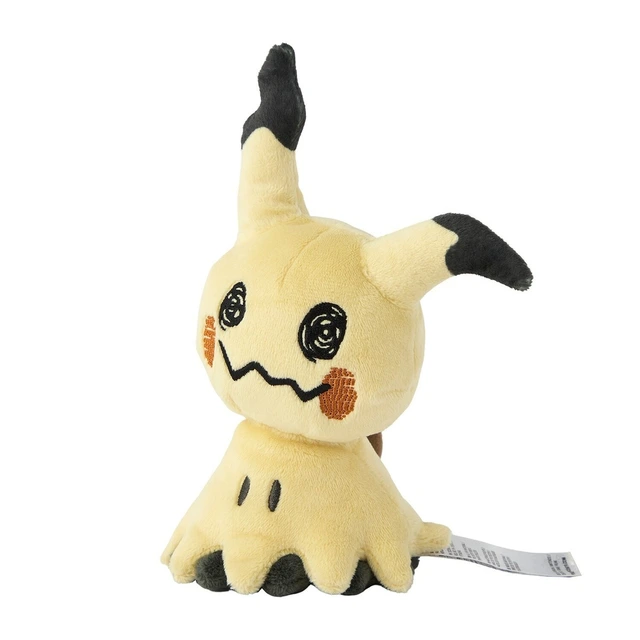
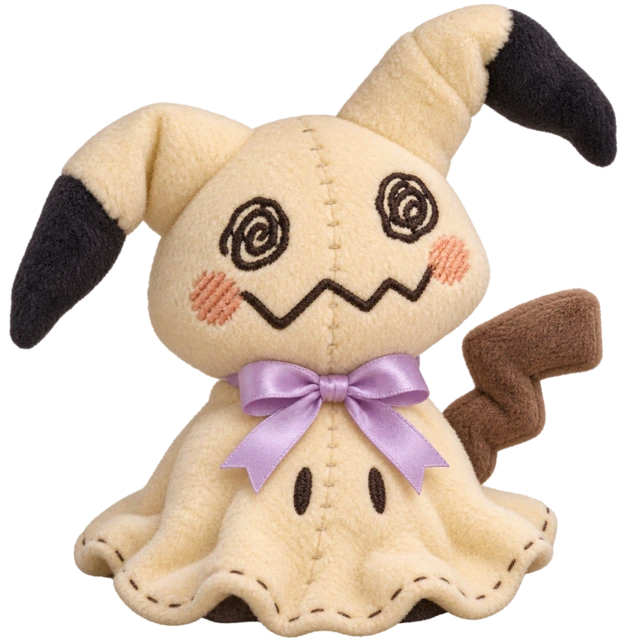
-
-

diff --git a/public/assets/js/room-designs.js b/public/assets/js/room-designs.js
@@ -2,6 +2,6 @@ import {OUTFITS,ROOMS,PRIZES,unlockedOutfits,unlockedRooms} from './game-rules.j
 export function designTools(store,parent){
  const box=document.createElement('details');box.className='saved-designs';box.innerHTML='<summary>My favorite rooms ♡</summary><p>Keep up to six lovely combinations.</p><label>Name this design <input maxlength="40" placeholder="My cozy little room"></label>';parent.prepend(box);
  const name=box.querySelector('input'),save=document.createElement('button'),status=document.createElement('p'),list=document.createElement('div');save.className='button';save.textContent='Save this design';status.setAttribute('role','status');list.className='design-list';box.append(save,status,list);
- save.onclick=()=>{const title=name.value.trim();if(!title){status.textContent='Give your room a little name first ♡';return;}if((store.state.roomDesigns||[]).length>=6){status.textContent='Six favorites are saved. Remove one to make room ♡';return;}store.change(s=>{s.roomDesigns??=[];s.roomDesigns.push({id:crypto.randomUUID(),name:title,room:s.room,outfit:s.outfit,shelf:[...s.shelf]});});name.value='';status.textContent='Your favorite is saved ♡';};
- let previous='';return s=>{const signature=JSON.stringify([s.roomDesigns,s.prizes,unlockedRooms(s),unlockedOutfits(s),store.ready]);if(signature===previous)return;previous=signature;save.disabled=!store.ready||(s.roomDesigns||[]).length>=6;list.replaceChildren();for(const design of s.roomDesigns||[]){const card=document.createElement('div');card.className='design-card';const title=document.createElement('strong');title.textContent=design.name;const preview=document.createElement('div');preview.className='design-preview';const room=ROOMS.find(r=>r.id===design.room);preview.style.background=room?.image?`url('${room.image}') center/cover`:room?.wall||'#ead7f3';for(const item of [OUTFITS.find(o=>o.id===design.outfit),...design.shelf.map(id=>PRIZES.find(p=>p.id===id))].filter(Boolean)){const img=document.createElement('img');img.src=item.image;img.alt=item.name;preview.append(img);}const ready=unlockedRooms(s).includes(design.room)&&unlockedOutfits(s).includes(design.outfit)&&design.shelf.every(id=>!id||s.prizes.includes(id));const use=document.createElement('button');use.className='button';use.textContent=ready?'Use this room ♡':'Some treasures are missing';use.disabled=!store.ready||!ready;use.onclick=()=>{store.change(next=>{if(unlockedRooms(next).includes(design.room)&&unlockedOutfits(next).includes(design.outfit)&&design.shelf.every(id=>!id||next.prizes.includes(id))){next.room=design.room;next.outfit=design.outfit;next.shelf=[...design.shelf];}});status.textContent=design.name+' is ready ♡';};const remove=document.createElement('button');remove.className='button soft';remove.textContent='Remove favorite';remove.onclick=()=>store.change(next=>next.roomDesigns=next.roomDesigns.filter(d=>d.id!==design.id));card.append(title,preview,use,remove);list.append(card);}};
+ save.onclick=()=>{const title=name.value.trim();if(!title){status.textContent='Give your room a little name first ♡';return;}if((store.state.roomDesigns||[]).length>=6){status.textContent='Six favorites are saved. Remove one to make room ♡';return;}store.change(s=>{s.roomDesigns??=[];s.roomDesigns.push({id:crypto.randomUUID(),name:title,room:s.room,outfit:s.outfit,shelf:[...s.shelf]});});name.value='';pendingFavorite=true;status.textContent='Your favorite is saving ♡';void store.save?.();};
+ let pendingFavorite=false,previous='';return s=>{if(pendingFavorite){status.textContent=store.conflict?'Your favorite is kept here. Open your account save to finish syncing ♡':!store.online?'Your favorite is kept on this device until you reconnect ♡':store.dirty||store.saving?'Saving your favorite to your account…':'Your favorite is saved to your account ♡';if(store.online&&!store.dirty&&!store.saving&&!store.conflict)pendingFavorite=false;}const signature=JSON.stringify([s.roomDesigns,s.prizes,unlockedRooms(s),unlockedOutfits(s),store.ready]);if(signature===previous)return;previous=signature;save.disabled=!store.ready||(s.roomDesigns||[]).length>=6;list.replaceChildren();for(const design of s.roomDesigns||[]){const card=document.createElement('div');card.className='design-card';const title=document.createElement('strong');title.textContent=design.name;const preview=document.createElement('div');preview.className='design-preview';const room=ROOMS.find(r=>r.id===design.room);preview.style.background=room?.image?`url('${room.image}') center/cover`:room?.wall||'#ead7f3';for(const item of [OUTFITS.find(o=>o.id===design.outfit),...design.shelf.map(id=>PRIZES.find(p=>p.id===id))].filter(Boolean)){const img=document.createElement('img');img.src=item.image;img.alt=item.name;preview.append(img);}const ready=unlockedRooms(s).includes(design.room)&&unlockedOutfits(s).includes(design.outfit)&&design.shelf.every(id=>!id||s.prizes.includes(id));const use=document.createElement('button');use.className='button';use.textContent=ready?'Use this room ♡':'Some treasures are missing';use.disabled=!store.ready||!ready;use.onclick=()=>{store.change(next=>{if(unlockedRooms(next).includes(design.room)&&unlockedOutfits(next).includes(design.outfit)&&design.shelf.every(id=>!id||next.prizes.includes(id))){next.room=design.room;next.outfit=design.outfit;next.shelf=[...design.shelf];}});status.textContent=design.name+' is ready ♡';};const remove=document.createElement('button');remove.className='button soft';remove.textContent='Remove favorite';remove.onclick=()=>store.change(next=>next.roomDesigns=next.roomDesigns.filter(d=>d.id!==design.id));card.append(title,preview,use,remove);list.append(card);}};
 }

diff --git a/public/assets/js/carnival.js b/public/assets/js/carnival.js
@@ -1,3 +1,4 @@
+import {updateProgress} from './progress-view.js';
 import {openDrop} from './princess-drop.js';
 import {openRoulette} from './roulette.js';
 import {HUNTERS,weeklyHunt} from './hunt-config.js';
@@ -10,14 +11,14 @@ import { loadContent, text as t, readNotes } from './content-loader.js';
 import { playBoxSound } from './box-audio.js';
 const $ = id => document.getElementById(id), store = new CarnivalStore(), prize = id => PRIZES.find(p => p.id === id);
 const dialog = $('game-dialog'), body = $('game-body'), result = $('game-result');
-let roomSignature = '', toastTimer;
+let roomSignature = '', wardrobeSignature='', collectionSignature='', toastTimer;
 const renderStudio = makeStudio(store);
 const resetNote = document.createElement('p'); resetNote.className='section-copy'; resetNote.id='weekly-reset-estimate'; $('weekly-box').parentElement.prepend(resetNote);
 const mazeReset = document.createElement('small'); mazeReset.id='maze-reset-estimate'; $('manor-open').append(mazeReset);
 function el(tag, text, className) { const n = document.createElement(tag); if (text !== undefined)
     n.textContent = text; if (className)
     n.className = className; return n; }
-function image(item, className = 'collectible-image') { const img = el('img', undefined, className); img.src = item.image; img.alt = item.name; img.loading = 'lazy'; return img; }
+function image(item, className = 'collectible-image') { const img = el('img', undefined, className); img.src = item.image; img.alt = item.name; img.loading = 'lazy';img.decoding='async'; return img; }
 function button(text, fn, parent = body) { const b = el('button', text, 'button'); b.onclick = fn; parent.append(b); return b; }
 function p(text) { const n = el('p', text, 'rules'); body.append(n); return n; }
 function actions() { const n = el('div', undefined, 'game-actions'); body.append(n); return n; }
@@ -48,7 +49,7 @@ function render(s, event = {}) {
     $('manor-open').disabled = !store.ready || mazeUnavailable&&store.profile!=='testing';
     $('manor-open').title = mazeUnavailable ? 'A new maze adventure opens next Monday.' : '';
     $('manor-availability').textContent = s.manorRun?.status === 'active' ? 'Resume your weekly run →' : s.mazeWeeks.includes(week) ? 'This week’s run is complete ♡' : t('games.manor.action');
-    const unlocked = unlockedOutfits(s), signature = JSON.stringify([s.prizes, s.shelf, s.outfit, unlocked, store.ready,journeyCounts(s)]);
+    const unlocked = unlockedOutfits(s), signature = JSON.stringify([s.prizes,s.shelf,s.outfit,store.ready]);
     if (signature !== roomSignature) {
         roomSignature = signature;
         const outfit = OUTFITS.find(o => o.id === s.outfit) || OUTFITS[0];
@@ -60,7 +61,15 @@ function render(s, event = {}) {
         $('collection-total').textContent = `${s.prizes.length} / ${PRIZES.length}`;
         $('stage-shelves').replaceChildren(...s.shelf.map((id, index) => { const b = el('button', id ? undefined : '+', 'stage-slot'); const plinth=el('span',undefined,'display-plinth');plinth.setAttribute('aria-hidden','true');b.append(plinth); if (id)
             b.append(image(prize(id))); b.setAttribute('aria-label', `Decorate shelf ${index + 1}${id ? `, ${prize(id).name}` : ''}`); b.disabled = !store.ready; b.onclick = () => decorate(index); return b; }));
+    }
+    const nextWardrobe=JSON.stringify([s.outfit,unlocked,store.ready]);
+    if(nextWardrobe!==wardrobeSignature){wardrobeSignature=nextWardrobe;
+        $('outfit-count').textContent=t('wardrobe.count',{owned:unlocked.length,total:OUTFITS.length});
         $('outfits').replaceChildren(...OUTFITS.map(o => { const owned = unlocked.includes(o.id), b = el('button', undefined, `outfit${s.outfit === o.id ? ' equipped' : ''}${owned ? '' : ' locked'}`); const thumbnail = o.image ? image(o, 'outfit-thumbnail') : el('span', o.icon, 'outfit-icon'); b.append(thumbnail, el('strong', o.name), el('small', owned && !o.image ? t('wardrobe.pending') : s.outfit === o.id ? t('wardrobe.wearing') : owned ? t('wardrobe.wear') : o.hint)); {const goals=outfitProgress(s,o.id);if(goals.length){const list=el('span',undefined,'outfit-goals');for(const goal of goals){const label=goal.label,line=el('span',label+' · '+goal.value+' / '+goal.goal),meter=el('progress');meter.max=goal.goal;meter.value=goal.value;meter.setAttribute('aria-label',label);list.append(line,meter);}b.append(list);}} b.disabled = !store.ready || !owned || !o.image; b.setAttribute('aria-pressed', String(s.outfit === o.id)); b.onclick = () => store.change(s => { s.outfit = o.id; }); return b; }));
+    }
+    updateProgress($('outfits'),OUTFITS,o=>outfitProgress(s,o.id));
+    const nextCollection=JSON.stringify(s.prizes);
+    if(nextCollection!==collectionSignature){collectionSignature=nextCollection;
         $('collection').replaceChildren(...PRIZES.map(item => { const card = el('div', undefined, `inventory-item${s.prizes.includes(item.id) ? '' : ' locked'}`); card.append(image(item), el('span', item.name)); if (!s.prizes.includes(item.id)) {
             const lock = el('small', 'Not found yet');
             card.append(lock);
@@ -169,3 +178,5 @@ readNotes().then(data => { const latest = data.notes.filter(n => n.published).so
     $('latest-note').textContent = `${latest.emoji} Week ${latest.week} · ${latest.title} — ${latest.message.slice(0, 160)}`; }).catch(() => { });
 
 $('manor-open').onclick = () => { if (!$('manor-open').disabled) location.href = 'escape.html'; };
+
+export {store};

diff --git a/public/assets/js/room-studio.js b/public/assets/js/room-studio.js
@@ -1,3 +1,4 @@
+import {updateProgress} from './progress-view.js';
 import {designTools} from './room-designs.js';
 import {galleryPager} from './gallery-pager.js';
 import {ROOMS, unlockedRooms, roomProgress} from './game-rules.js';
@@ -40,5 +41,5 @@ export function makeStudio(store){
  c.fillStyle='#513563';c.font='22px Georgia';c.textAlign='center';c.fillText('Nayleen’s Palace ♡',500,canvas.height-12);
 
  const blob=await new Promise(resolve=>canvas.toBlob(resolve,'image/png'));if(!blob)throw Error();const url=URL.createObjectURL(blob),a=document.createElement('a');a.href=url;a.download='nayleens-palace-room.png';a.click();setTimeout(()=>URL.revokeObjectURL(url),5000);feedback.textContent='Your room portrait is ready to keep. ♡';}catch{feedback.textContent='The images are still loading. Try saving again in a moment.'}finally{exportButton.disabled=!store.ready}};
- let last='';return s=>{renderDesigns(s);const owned=unlockedRooms(s),id=owned.includes(s.room)?s.room:'lavender';document.querySelector('.espurr-room').dataset.room=id;const theme=ROOMS.find(r=>r.id===id);for(const slot of document.querySelectorAll('.stage-slot')){if(!slot.querySelector('.display-plinth')){const stand=document.createElement('span');stand.className='display-plinth';stand.setAttribute('aria-hidden','true');slot.prepend(stand)}}backdrop.hidden=!theme.image;if(theme.image && !backdrop.src.endsWith(theme.image))backdrop.src=theme.image;exportButton.disabled=!store.ready;const key=JSON.stringify([owned,id,store.ready,ROOMS.map(r=>roomProgress(s,r.id))]);if(key===last)return;last=key;options.replaceChildren(...ROOMS.map(r=>{const b=document.createElement('button');b.className='outfit room-option'+(owned.includes(r.id)?'':' locked');b.disabled=!store.ready||!owned.includes(r.id);b.setAttribute('aria-pressed',String(id===r.id));const preview=document.createElement('span');preview.className='room-preview';preview.style.background=r.image?`url('${r.image}') center/cover`:'linear-gradient('+r.wall+' 75%,'+r.floor+' 75%)';preview.textContent=r.image?'':r.id==='garden'?'❀':r.id==='cafe'?'☕':'☾';const name=document.createElement('strong');name.textContent=r.name;const hint=document.createElement('small');hint.textContent=id===r.id?'Living here ♡':owned.includes(r.id)?'Move in':r.hint;b.append(preview,name,hint);const goals=document.createElement('span');goals.className='outfit-goals';for(const goal of roomProgress(s,r.id)){const line=document.createElement('span'),meter=document.createElement('progress');line.textContent=goal.label+' · '+goal.value+' / '+goal.goal;meter.max=goal.goal;meter.value=goal.value;meter.setAttribute('aria-label',goal.label);goals.append(line,meter);}b.append(goals);b.onclick=()=>store.change(s=>s.room=r.id);return b}));};
+ let last='',sceneRoom='';return s=>{renderDesigns(s);const owned=unlockedRooms(s),id=owned.includes(s.room)?s.room:'lavender';document.querySelector('.espurr-room').dataset.room=id;const theme=ROOMS.find(r=>r.id===id);for(const slot of document.querySelectorAll('.stage-slot')){if(!slot.querySelector('.display-plinth')){const stand=document.createElement('span');stand.className='display-plinth';stand.setAttribute('aria-hidden','true');slot.prepend(stand)}}backdrop.hidden=!theme.image;if(theme.image && !backdrop.src.endsWith(theme.image))backdrop.src=theme.image;exportButton.disabled=!store.ready;const key=JSON.stringify([owned,id,store.ready]);if(key===last){updateProgress(options,ROOMS,r=>roomProgress(s,r.id));return;}last=key;options.replaceChildren(...ROOMS.map(r=>{const b=document.createElement('button');b.className='outfit room-option'+(owned.includes(r.id)?'':' locked');b.disabled=!store.ready||!owned.includes(r.id);b.setAttribute('aria-pressed',String(id===r.id));const preview=document.createElement('span');preview.className='room-preview';preview.style.background=r.image?`url('${r.image}') center/cover`:'linear-gradient('+r.wall+' 75%,'+r.floor+' 75%)';preview.textContent=r.image?'':r.id==='garden'?'❀':r.id==='cafe'?'☕':'☾';const name=document.createElement('strong');name.textContent=r.name;const hint=document.createElement('small');hint.textContent=id===r.id?'Living here ♡':owned.includes(r.id)?'Move in':r.hint;b.append(preview,name,hint);const goals=document.createElement('span');goals.className='outfit-goals';for(const goal of roomProgress(s,r.id)){const line=document.createElement('span'),meter=document.createElement('progress');line.textContent=goal.label+' · '+goal.value+' / '+goal.goal;meter.max=goal.goal;meter.value=goal.value;meter.setAttribute('aria-label',goal.label);goals.append(line,meter);}b.append(goals);b.onclick=()=>store.change(s=>s.room=r.id);return b}));};
 }

diff --git a/public/assets/js/game-rules.js b/public/assets/js/game-rules.js
@@ -223,8 +223,8 @@ function validJourney(j){if(!j||typeof j!=='object'||Array.isArray(j)||j.version
 function normalizeJourney(raw,now){const j=freshJourney();if(!raw||typeof raw!=='object')return j;const today=dayKey(now),clean=list=>[...new Set((Array.isArray(list)?list:[]).filter(d=>dateKey(d)&&d<=today))].sort().slice(-400);for(const [key,max] of [['cardDays',5],['squishDays',100]]){const input=raw[key];if(input&&typeof input==='object'&&!Array.isArray(input))for(const day of Object.keys(input).filter(d=>dateKey(d)&&d<=today).sort().slice(-400))j[key][day]=integer(input[day],max);}j.playDays=clean(raw.playDays);j.loginDays=clean([...(raw.loginDays||[]),...j.playDays]);for(const key of ['boxWeeks','mazeWeeks','escapeWeeks'])j[key]=clean(raw[key]).filter(d=>new Date(d).getUTCDay()===1);j.earnedOutfits=[...new Set((Array.isArray(raw.earnedOutfits)?raw.earnedOutfits:[]).filter(id=>Object.hasOwn(OUTFIT_CHALLENGES,id)))];return j;}
 export function journeyCounts(s){const j=s.journey||freshJourney(),cards=Object.values(j.cardDays),weekly={};for(const [day,count] of Object.entries(j.cardDays)) {const week=mondayKey(Date.parse(day)+43200000);weekly[week]=(weekly[week]||0)+count;}const sparkleDays=cards.filter(n=>n>=5).length;return {welcome:1,loginDays:new Set([...(j.loginDays||[]),...j.playDays]).size,bestBank:s.stats.bestBank,squishes:s.clicker.lifetime,boxes:s.stats.boxes,escapes:s.stats.manorWins,cardStarts:s.stats.cardRounds,squishies:unlockedSquishies(s).length,bestDrop:Math.max(s.stats.bestDrop||0,...Object.values(s.dropRuns||{}).map(r=>r.score||0)),wishes:Math.max(s.stats.wishes||0,(s.tradeWeeks||[]).length),roulette:Math.max(s.stats.roulette||0,Object.values(s.rouletteWeeks||{}).reduce((a,n)=>a+n,0)),hunts:Math.max(s.stats.hunts||0,(s.mazeWeeks||[]).length,s.stats.manorWins||0),hands:s.stats.blackjackHands||0,dropPlays:Math.max(s.stats.dropPlays||0,Object.values(s.dropRuns||{}).reduce((a,r)=>a+dropAttempts(r),0)),sparkleDays,cozyDays:Object.values(j.squishDays).filter(n=>n>=100).length,playDays:j.playDays.length,tableWeeks:Object.values(weekly).filter(n=>n>=5).length,boxWeeks:j.boxWeeks.length,mazeWeeks:j.mazeWeeks.length,escapeWeeks:j.escapeWeeks.length,wins:s.stats.cardWins,jubilee:sparkleDays>=7||j.earnedOutfits.includes('jubilee')||(s.grantedOutfits||[]).includes('jubilee')?1:0};}
 export function challengeProgress(s,requirements){const counts=journeyCounts(s);return requirements.map(([metric,goal])=>({metric,goal,value:Math.min(goal,counts[metric]||0),label:JOURNEY_LABELS[metric]}));}
-export function outfitProgress(s,id){return challengeProgress(s,OUTFIT_CHALLENGES[id]||[]);}
-export function roomProgress(s,id){return challengeProgress(s,ROOM_CHALLENGES[id]||[]);}
+export function outfitProgress(s,id){return challengeProgress(s,OUTFIT_CHALLENGES[id]||[]).map(g=>(s.grantedOutfits||[]).includes(id)||(s.journey?.earnedOutfits||[]).includes(id)?{...g,value:g.goal}:g);}
+export function roomProgress(s,id){return challengeProgress(s,ROOM_CHALLENGES[id]||[]).map(g=>(s.grantedRooms||[]).includes(id)?{...g,value:g.goal}:g);}
 export function recordLogin(s,now=Date.now()){s.journey??=freshJourney();s.journey.loginDays??=[...s.journey.playDays];const d=dayKey(now);if(s.journey.loginDays.includes(d))return false;s.journey.loginDays.push(d);s.journey.loginDays=s.journey.loginDays.sort().slice(-400);claimJourneyRewards(s);return true;}
 export const WEEKLY_RESET='Weekly games and blind boxes reset Monday at 12:00 AM (Central Time) ♡';
 function claimJourneyRewards(s){s.journey??=freshJourney();for(const [id,requirements] of Object.entries(OUTFIT_CHALLENGES).filter(([id])=>!['royal','sunday','cozy','espeon','akali','kda','furina','rogue','ada'].includes(id)))if(!s.journey.earnedOutfits.includes(id)&&challengeProgress(s,requirements).every(g=>g.value>=g.goal))s.journey.earnedOutfits.push(id);}

diff --git a/server/game-rules.js b/server/game-rules.js
@@ -223,8 +223,8 @@ function validJourney(j){if(!j||typeof j!=='object'||Array.isArray(j)||j.version
 function normalizeJourney(raw,now){const j=freshJourney();if(!raw||typeof raw!=='object')return j;const today=dayKey(now),clean=list=>[...new Set((Array.isArray(list)?list:[]).filter(d=>dateKey(d)&&d<=today))].sort().slice(-400);for(const [key,max] of [['cardDays',5],['squishDays',100]]){const input=raw[key];if(input&&typeof input==='object'&&!Array.isArray(input))for(const day of Object.keys(input).filter(d=>dateKey(d)&&d<=today).sort().slice(-400))j[key][day]=integer(input[day],max);}j.playDays=clean(raw.playDays);j.loginDays=clean([...(raw.loginDays||[]),...j.playDays]);for(const key of ['boxWeeks','mazeWeeks','escapeWeeks'])j[key]=clean(raw[key]).filter(d=>new Date(d).getUTCDay()===1);j.earnedOutfits=[...new Set((Array.isArray(raw.earnedOutfits)?raw.earnedOutfits:[]).filter(id=>Object.hasOwn(OUTFIT_CHALLENGES,id)))];return j;}
 export function journeyCounts(s){const j=s.journey||freshJourney(),cards=Object.values(j.cardDays),weekly={};for(const [day,count] of Object.entries(j.cardDays)) {const week=mondayKey(Date.parse(day)+43200000);weekly[week]=(weekly[week]||0)+count;}const sparkleDays=cards.filter(n=>n>=5).length;return {welcome:1,loginDays:new Set([...(j.loginDays||[]),...j.playDays]).size,bestBank:s.stats.bestBank,squishes:s.clicker.lifetime,boxes:s.stats.boxes,escapes:s.stats.manorWins,cardStarts:s.stats.cardRounds,squishies:unlockedSquishies(s).length,bestDrop:Math.max(s.stats.bestDrop||0,...Object.values(s.dropRuns||{}).map(r=>r.score||0)),wishes:Math.max(s.stats.wishes||0,(s.tradeWeeks||[]).length),roulette:Math.max(s.stats.roulette||0,Object.values(s.rouletteWeeks||{}).reduce((a,n)=>a+n,0)),hunts:Math.max(s.stats.hunts||0,(s.mazeWeeks||[]).length,s.stats.manorWins||0),hands:s.stats.blackjackHands||0,dropPlays:Math.max(s.stats.dropPlays||0,Object.values(s.dropRuns||{}).reduce((a,r)=>a+dropAttempts(r),0)),sparkleDays,cozyDays:Object.values(j.squishDays).filter(n=>n>=100).length,playDays:j.playDays.length,tableWeeks:Object.values(weekly).filter(n=>n>=5).length,boxWeeks:j.boxWeeks.length,mazeWeeks:j.mazeWeeks.length,escapeWeeks:j.escapeWeeks.length,wins:s.stats.cardWins,jubilee:sparkleDays>=7||j.earnedOutfits.includes('jubilee')||(s.grantedOutfits||[]).includes('jubilee')?1:0};}
 export function challengeProgress(s,requirements){const counts=journeyCounts(s);return requirements.map(([metric,goal])=>({metric,goal,value:Math.min(goal,counts[metric]||0),label:JOURNEY_LABELS[metric]}));}
-export function outfitProgress(s,id){return challengeProgress(s,OUTFIT_CHALLENGES[id]||[]);}
-export function roomProgress(s,id){return challengeProgress(s,ROOM_CHALLENGES[id]||[]);}
+export function outfitProgress(s,id){return challengeProgress(s,OUTFIT_CHALLENGES[id]||[]).map(g=>(s.grantedOutfits||[]).includes(id)||(s.journey?.earnedOutfits||[]).includes(id)?{...g,value:g.goal}:g);}
+export function roomProgress(s,id){return challengeProgress(s,ROOM_CHALLENGES[id]||[]).map(g=>(s.grantedRooms||[]).includes(id)?{...g,value:g.goal}:g);}
 export function recordLogin(s,now=Date.now()){s.journey??=freshJourney();s.journey.loginDays??=[...s.journey.playDays];const d=dayKey(now);if(s.journey.loginDays.includes(d))return false;s.journey.loginDays.push(d);s.journey.loginDays=s.journey.loginDays.sort().slice(-400);claimJourneyRewards(s);return true;}
 export const WEEKLY_RESET='Weekly games and blind boxes reset Monday at 12:00 AM (Central Time) ♡';
 function claimJourneyRewards(s){s.journey??=freshJourney();for(const [id,requirements] of Object.entries(OUTFIT_CHALLENGES).filter(([id])=>!['royal','sunday','cozy','espeon','akali','kda','furina','rogue','ada'].includes(id)))if(!s.journey.earnedOutfits.includes(id)&&challengeProgress(s,requirements).every(g=>g.value>=g.goal))s.journey.earnedOutfits.push(id);}

diff --git a/public/assets/css/main.css b/public/assets/css/main.css
@@ -240,3 +240,6 @@ button:disabled,.button:disabled,.game-card:disabled{background:#e3d2ee!importan
 /* 5.7.3: flexible headings and readable progress at phone widths. */
 .section-head{flex-wrap:wrap;gap:.6rem;min-width:0}.section-head>*{min-width:0;max-width:100%;overflow-wrap:anywhere}.section-head .count,#outfit-count,#prize-count{white-space:normal;flex-shrink:1}
 .wardrobe,.collection-panel,.room-options,.outfit,.inventory-item{min-width:0;max-width:100%;box-sizing:border-box;overflow-wrap:anywhere}.outfit-goals{display:grid;gap:.4rem;width:100%;min-width:0;font-size:.78rem;line-height:1.5}.outfit-goals progress{width:100%;max-width:100%;height:.55rem;accent-color:#8b5da3}.weekly-reset-note{font-size:.82rem;color:#775385;text-align:center;line-height:1.5;margin:.4rem 0 1rem;flex-shrink:0}
+
+/* 5.7.4: offscreen gallery cards do not need layout/paint until scrolled near. */
+@supports(content-visibility:auto){.outfit,.inventory-item,.design-card{content-visibility:auto;contain-intrinsic-size:auto 320px}}

diff --git a/public/assets/js/save-manager.js b/public/assets/js/save-manager.js
@@ -25,7 +25,7 @@ export class CarnivalStore {
         this.conflict = false;
         this.ready = false;
         this.status = 'Opening your little carnival…';
-        this.lastSync = Date.now();
+        this.lastSync = Date.now();this.lastRemember=0;
         this.storageKey = CODE_LOGIN ? null : SAVE_KEY;
         try {
             if (CODE_LOGIN) return;
@@ -100,7 +100,7 @@ export class CarnivalStore {
             if(login){this.dirty=true;this.emit();this.schedule();}
             if (amount > 0)
                 this.dirty = true;
-            this.remember();
+            if(Date.now()-this.lastRemember>=5000){this.remember();this.lastRemember=Date.now();}
             if (amount > 0) {
                 this.emit({ unlocked: unlockedOutfits(this.state).filter(id => !previous.includes(id)) });
                 if (Date.now() - this.lastSync > 30000)

diff --git a/public/assets/js/progress-view.js b/public/assets/js/progress-view.js
@@ -1,0 +1,2 @@
+// Keep cards/images in place while their live requirement values advance.
+export function updateProgress(grid,items,progress){for(let index=0;index<items.length;index++){const list=grid.children[index]?.querySelector('.outfit-goals');if(!list)continue;for(const [i,g] of progress(items[index]).entries()){const line=list.children[i*2],meter=list.children[i*2+1],text=g.label+' · '+g.value+' / '+g.goal;if(line&&line.textContent!==text)line.textContent=text;if(meter&&Number(meter.value)!==g.value)meter.value=g.value;}}}

diff --git a/APPLY-5.7.4.md b/APPLY-5.7.4.md
@@ -1,0 +1,27 @@
+# Palace 5.7.4 — Performance and progress repair (Testing)
+
+1. In GitHub Desktop choose testing, Fetch/Pull. Extract the complete corrected Testing ZIP and copy everything INSIDE its folder into your repository folder. Merge folders and replace matching files. Commit to testing and Push origin. Keep main unchanged. Alternatively use the smaller 5.7.4 web patch's Website-update contents.
+2. Wait for the Testing Vercel deployment to finish.
+3. Install the new 5.7.4 APK over your existing app WITHOUT uninstalling. Version code 23 uses the same signing certificate. Select Testing in the app and reopen the room. This update needs both the website changes and the APK.
+4. No new Supabase SQL is required. Keep your existing 5.7.3 setup.
+
+## Changes
+
+- Unlock Everything now fills every outfit and room progress bar, including Gambit, Reze, Rafayel, booster pack, Cissia and hotpot. Explicit gifts and already-earned permanent outfits display complete bars. Natural progression still measures the real goals. Unlock Everything does not spend weekly turns or make up scores/play counts.
+- Passive income no longer rebuilds the entire wardrobe, collection and room shelf every second. These displays update independently and only when their relevant values change. Live progress bars update in place, without replacing cards or decoding their images again.
+- Passive local-storage checkpoints run every five seconds instead of every second. User actions, explicit saves and leaving the page still save immediately; cloud save timing is retained.
+- Offscreen cards skip unnecessary layout/painting where supported. Images decode asynchronously.
+- Android room inspection is reduced from every two seconds to every five; capture on page load and manual widget syncing remain immediate.
+- Personal-data checks do not redraw all widgets when their data is unchanged. Music artwork stays still while paused and refreshes less often while playing. Large room artwork is decoded at a size suited to the widget instead of full source resolution, reducing decoded image memory while preserving source proportions.
+- New soft fleece Mimikyu plushie illustration with embroidered details and a lavender bow replaces the product photo. Same collectible ID, so owned copies and favorite designs are preserved. Artwork was generated with the built-in image tool using a whole centered cream-fleece Mimikyu plush, lavender bow, dimensional toy shading and a transparent background; saved in public/assets/images/collectibles/mimikyu.webp and the matching Android artwork folder.
+- Favorite rooms are already part of the account state (roomDesigns), automatic backups and recovery. Verified using real save-handler and recovery tests. Saving a favorite now requests a cloud save immediately and shows account acknowledgement or an offline message.
+
+## Data preserved
+
+The complete ZIP starts with the latest Testing ZIP you supplied and preserves all 13 songs, their catalog, weekly notes, special dates, Espurr sayings and personalized site text. The small web patch excludes those files entirely. No reset or live deployment was performed. Existing Supabase progress and the five-backup policy stay.
+
+## Verification
+
+All 26 web suites and the web build pass, including every changed natural unlock threshold, complete grant progress, complete source/startup, favorite-design save and recovery, weekly-use preservation and hunter mechanics. A real-page regression verifies 100 passive-income changes cause ZERO wardrobe/collection/shelf replacements, while equipping still updates immediately. Android compiles, passes widget/resource alignment checks, and uses the existing APK signing identity.
+
+No physical Samsung timing or scrolling benchmark was available, so check responsiveness on your device after both updates. This fixes measured redundant work; it does not promise a particular FPS.

diff --git a/APPLY-5.7.3-REPAIR.md b/APPLY-5.7.3-REPAIR.md
@@ -1,18 +1,1 @@
-# Apply the complete 5.7.3 Testing repair
-
-The ZIP you uploaded still had 5.7.2 game rules, wardrobe requirements, page scripts and CSS. It was missing the new account-data endpoint/models and 18 collectible images. The installed APK supplies the native music screen, while the website supplies these game/content updates.
-
-This repair starts with YOUR uploaded Testing ZIP and overlays all missing 5.7.3 website changes. Your 13 song catalog entries, 13 audio files, weekly notes, site text, Espurr sayings and special-date configuration are preserved byte for byte. It does not change your Supabase save data.
-
-1. Download and extract NayleenPrincessWebsiteFinal-testing.zip again from the new download link.
-2. In GitHub Desktop select NayleenPrincessWebsiteFinal and CURRENT BRANCH testing. Fetch/Pull first.
-3. Open the extracted NayleenPrincessWebsiteFinal-testing folder. Copy everything INSIDE it into your existing local repository folder (the one containing package.json, public, server and api). Merge folders and replace matching files. Do not copy the outer folder inside the repository, and do not delete your repository folder.
-4. Back in GitHub Desktop review changes, Commit to testing, then Push origin. Main stays unchanged.
-5. Wait for the Testing Vercel deployment to succeed. In the app, use the owner code and the Testing website selector. Confirm its URL is your current Testing deployment, not the main website. Close/reopen the app after deployment if needed.
-6. Quick check: Collectibles should show a total of 39. Reze should be named Reze with a ten-escape goal; Jubilee should say fifteen login days. Check a cozy hotpot date appears in Rooms.
-
-Keep the existing 5.7.3 APK. No APK rebuild is needed for these missing website files. The 5.7.3 SQL you already ran is also the right migration; no need to create another Supabase project or rerun it for this repair.
-
-The separate 5.7.3-Missing-Files.zip is an optional smaller patch containing the same 49 changed/added files relative to your upload. Use either the complete corrected ZIP OR that smaller patch, not both. It omits music files and personalized content entirely.
-
-Verified: all 24 web test suites and the production web build pass using your actual uploaded content plus this repair. No live deployment or GitHub branch was changed here.
+Historical repair notes. For the current update, read APPLY-5.7.4.md.

diff --git a/README.md b/README.md
@@ -1,9 +1,9 @@
-# Nayleen’s Palace 5.7.3 — Testing
+# Nayleen’s Palace 5.7.4 — Testing
 
 This is the app/Testing version. Keep the restored pre-app `main` branch unchanged.
-Apply the cumulative Web-Update ZIP on **testing**, run database/patch-5.7.3.sql in the Testing Supabase project after the existing setup/backups SQL, then update the APK over the existing app without uninstalling.
+Apply the cumulative Web-Update ZIP on **testing**, keep the existing 5.7.3 database setup, then update the APK over the existing app without uninstalling.
 
-Use START-HERE-5.7.3.md included at the top level of the download for complete instructions and unlock goals.
+Use START-HERE-5.7.4.md included at the top level of the download for complete instructions and unlock goals.
 
 The Web-Update ZIP preserves your existing music catalog, MP3s, personalized site text, weekly notes, Espurr sayings and owner calendar dates. A complete Testing-Source ZIP is for reference; it contains an older example music catalog, so do not overwrite your newer song catalog with that example.
 
